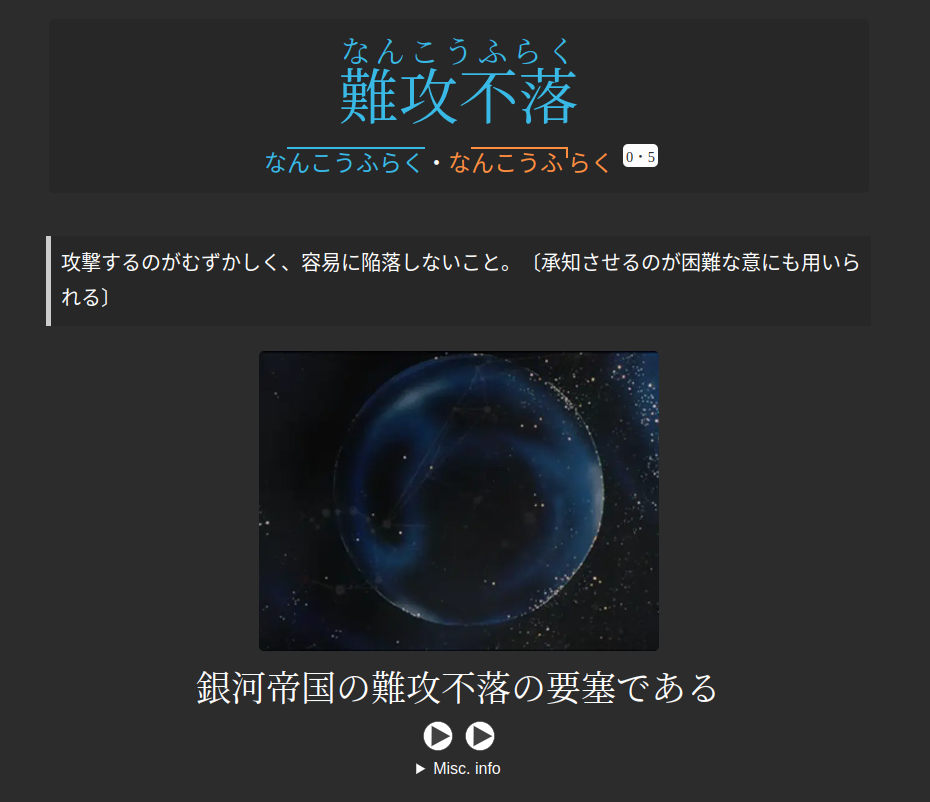
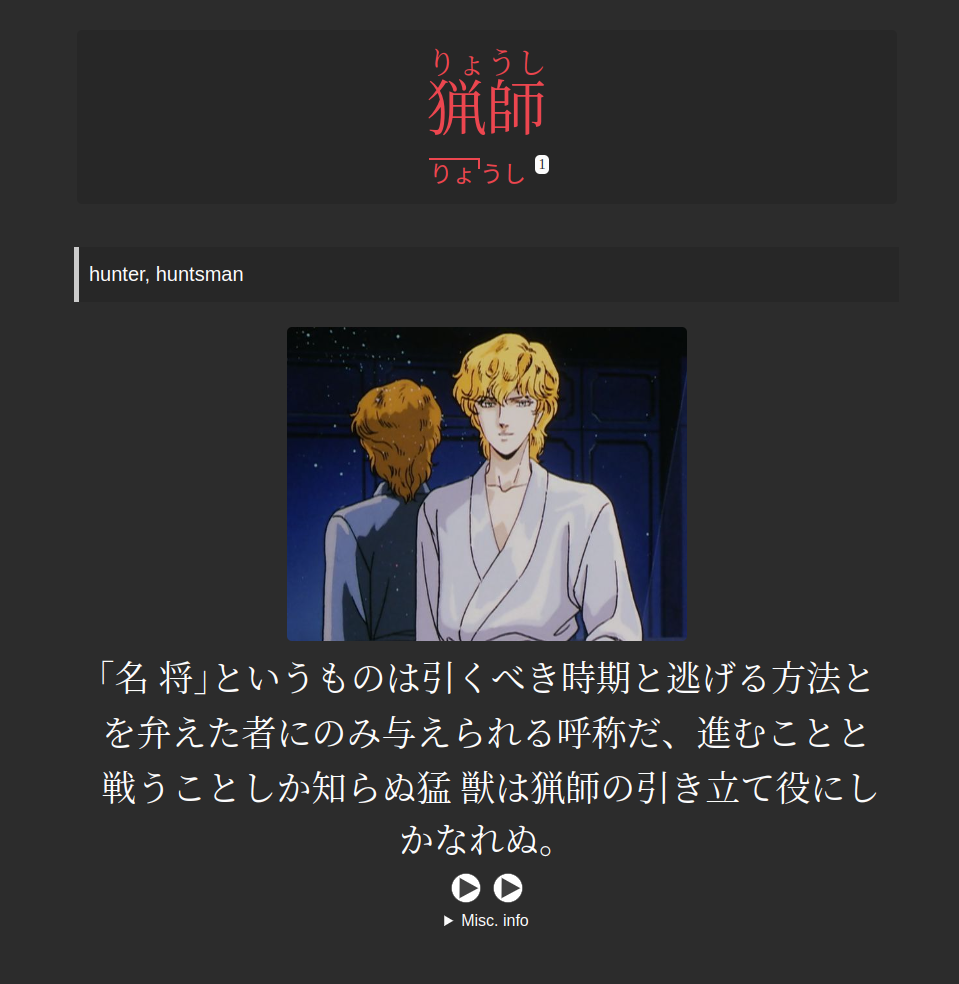
Change image and adjust README (english defintion is probably more beginner friendly)

Changed region(s): [[0.0312, 0.2494, 0.9355, 0.9663], [0.2806, 0.0312, 0.7172, 0.2182]]

diff --git a/README.md b/README.md
@@ -1,25 +1,25 @@
 # Lapis-Modified
 
-Fork of Lapis intended for modifications that align it with my personal preferences and the original, very thoughtful animecards design. The idea is that the information of the card splits into two categories:
+Fork of Lapis intended for modifications that align it with my personal preferences and the original, thoughtfully designed Animecards. The idea is to split the card's information into two categories:
 
 - Essential: Word, Reading, Meaning
 - Non-essential: Picture, Sentence, Audio
 
-When reviewing and passing the card we only pay attention to the essential information. When lapsing a card we use the non-essential information to remind ourselves. This lets us review cards very fast while keeping review quality high.
+When reviewing and passing the card, we only pay attention to the essential information. When lapsing a card, we use the non-essential information to remind ourselves. This allows us to review cards very quickly while maintaining high review quality.
 
-Therefore the following changes are made:
+Therefore, the following changes are made:
 
-- The image no longer appears next to the word, also left-shfiting it -> It's non-essential information and should be lower on the card.
-- The definiton has been moved below the word and reading -> It's essential information and should be higher on the card.
+- The image no longer appears next to the word and is left-shifted -> It's non-essential information and should be lower on the card.
+- The definition has been moved below the word and reading -> It's essential information and should be higher on the card.
 - Moved the audio buttons below the sentence.
 
-I will try my best to keep this fork up to date with the original Lapis and not to break any features. If the maintainers of Lapis think these are good ideas, it might be worth building them into the original deck as optional settings.
+I will try my best to keep this fork up to date with the original Lapis and avoid breaking any features. If the maintainers of Lapis think these are good ideas, it might be worth building them into the original deck as optional settings.
 
 ![Lapis Modified](assets/lapis_modified.png)
 
 ---
 
-**Original Lapis Docks below. Please use them as a reference for setting up the deck in Yomitan and as reference for other deck features.**
+**Original Lapis documentation below. Please use it as a reference for setting up the deck in Yomitan and understanding other deck features.**
 
 ## Lapis
 
